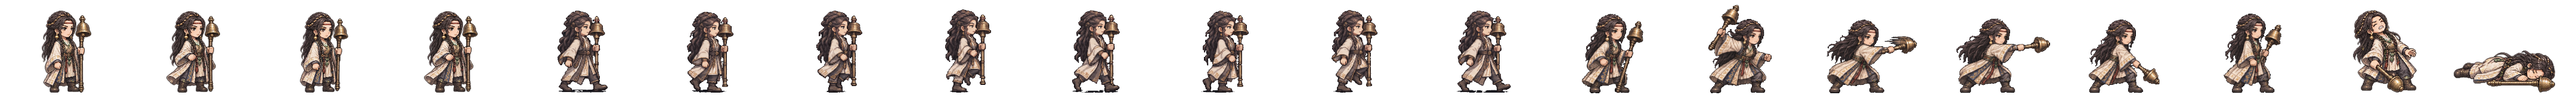
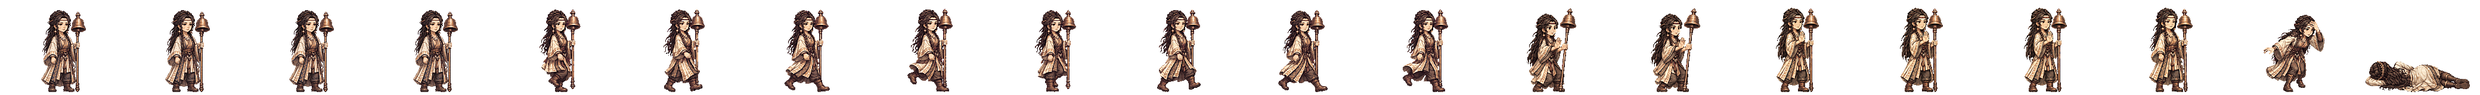
가락 신청간 새 띠: 큰 방울 지팡이 걷기·시전(손바닥 밀기)·방울 흔들기·맞음·쓰러짐 (걷기 윗몸 흔들림 0 · 합격)
Claude-Session: https://claude.ai/code/session_01TRiuN7s6aDfSnaHxrkctmU

Changed region(s): [[0.4688, 0.0938, 1.0, 1.0], [0.2188, 0.125, 0.4375, 0.9688], [0.0, 0.125, 0.1875, 0.9688]]

diff --git a/src/realm/data/spritePx.ts b/src/realm/data/spritePx.ts
@@ -1,3 +1,3 @@
 /** public/realm/anim-px/manifest.json 의 사본 — tools/sprite-normalize.mjs 가 만든다 (손으로 고치지 말 것). 칸 [가로, 세로] · feet = 발 줄(칸 위에서 y) · bodyPx = 서 있는 몸 키 */
 import { expandManifest } from './sprite-manifest.ts'
-export const SPRITE_PX: Readonly<Record<string, { readonly cell: readonly [number, number]; readonly feet: number; readonly bodyPx: number; readonly kind: 'general' | 'soldier' | 'folk' | 'crowd'; readonly cells: number }>> = expandManifest<{ readonly cell: readonly [number, number]; readonly feet: number; readonly bodyPx: number; readonly kind: 'general' | 'soldier' | 'folk' | 'crowd'; readonly cells: number }>([{"cell":[166,128],"feet":126,"bodyPx":124,"kind":"soldier","cells":20},{"cell":[116,128],"feet":126,"bodyPx":117,"kind":"soldier","cells":20},{"cell":[127,128],"feet":126,"bodyPx":116,"kind":"soldier","cells":20},{"cell":[269,128],"feet":126,"bodyPx":126,"kind":"soldier","cells":20},{"cell":[503,128],"feet":126,"bodyPx":127,"kind":"soldier","cells":20},{"cell":[614,128],"feet":126,"bodyPx":126,"kind":"soldier","cells":20},{"cell":[200,160],"feet":156,"bodyPx":138,"kind":"general","cells":20},{"cell":[208,160],"feet":155,"bodyPx":138,"kind":"general","cells":20},{"cell":[208,160],"feet":154,"bodyPx":138,"kind":"general","cells":20},{"cell":[304,160],"feet":155,"bodyPx":135,"kind":"general","cells":20},{"cell":[184,160],"feet":156,"bodyPx":138,"kind":"general","cells":20},{"cell":[208,160],"feet":154,"bodyPx":136,"kind":"general","cells":20},{"cell":[232,160],"feet":156,"bodyPx":138,"kind":"general","cells":20},{"cell":[208,160],"feet":156,"bodyPx":138,"kind":"general","cells":20},{"cell":[168,160],"feet":156,"bodyPx":124,"kind":"general","cells":20},{"cell":[216,160],"feet":156,"bodyPx":130,"kind":"general","cells":20},{"cell":[200,160],"feet":156,"bodyPx":116,"kind":"general","cells":20},{"cell":[192,160],"feet":156,"bodyPx":138,"kind":"general","cells":20},{"cell":[208,160],"feet":154,"bodyPx":135,"kind":"general","cells":20},{"cell":[280,160],"feet":156,"bodyPx":138,"kind":"general","cells":20},{"cell":[232,160],"feet":156,"bodyPx":134,"kind":"general","cells":20},{"cell":[144,160],"feet":156,"bodyPx":70,"kind":"general","cells":20},{"cell":[208,160],"feet":156,"bodyPx":70,"kind":"general","cells":20},{"cell":[192,160],"feet":156,"bodyPx":70,"kind":"general","cells":20},{"cell":[240,160],"feet":155,"bodyPx":138,"kind":"general","cells":20},{"cell":[160,160],"feet":156,"bodyPx":135,"kind":"general","cells":20},{"cell":[192,160],"feet":156,"bodyPx":128,"kind":"general","cells":20},{"cell":[224,160],"feet":155,"bodyPx":138,"kind":"general","cells":20},{"cell":[216,160],"feet":156,"bodyPx":138,"kind":"general","cells":20},{"cell":[208,160],"feet":156,"bodyPx":134,"kind":"general","cells":20},{"cell":[208,160],"feet":154,"bodyPx":130,"kind":"general","cells":20},{"cell":[248,160],"feet":156,"bodyPx":138,"kind":"general","cells":20},{"cell":[248,160],"feet":155,"bodyPx":138,"kind":"general","cells":20},{"cell":[192,160],"feet":155,"bodyPx":138,"kind":"general","cells":20},{"cell":[192,160],"feet":156,"bodyPx":124,"kind":"general","cells":20},{"cell":[208,160],"feet":154,"bodyPx":131,"kind":"general","cells":20},{"cell":[256,160],"feet":156,"bodyPx":138,"kind":"general","cells":20},{"cell":[240,160],"feet":156,"bodyPx":138,"kind":"general","cells":20},{"cell":[232,160],"feet":156,"bodyPx":139,"kind":"general","cells":20},{"cell":[232,160],"feet":156,"bodyPx":73,"kind":"general","cells":20},{"cell":[208,160],"feet":154,"bodyPx":137,"kind":"general","cells":20},{"cell":[264,160],"feet":156,"bodyPx":138,"kind":"general","cells":20},{"cell":[224,160],"feet":156,"bodyPx":138,"kind":"general","cells":20},{"cell":[224,160],"feet":156,"bodyPx":128,"kind":"general","cells":20},{"cell":[176,160],"feet":156,"bodyPx":129,"kind":"general","cells":20},{"cell":[208,160],"feet":154,"bodyPx":139,"kind":"general","cells":20},{"cell":[232,160],"feet":155,"bodyPx":138,"kind":"general","cells":20},{"cell":[208,160],"feet":156,"bodyPx":132,"kind":"general","cells":20},{"cell":[184,160],"feet":156,"bodyPx":122,"kind":"general","cells":20},{"cell":[280,160],"feet":155,"bodyPx":133,"kind":"general","cells":20},{"cell":[176,160],"feet":156,"bodyPx":70,"kind":"general","cells":20},{"cell":[186,128],"feet":126,"bodyPx":127,"kind":"soldier","cells":20},{"cell":[298,128],"feet":126,"bodyPx":126,"kind":"soldier","cells":20},{"cell":[82,128],"feet":126,"bodyPx":114,"kind":"folk","cells":8},{"cell":[134,128],"feet":126,"bodyPx":119,"kind":"soldier","cells":20},{"cell":[380,128],"feet":126,"bodyPx":124,"kind":"soldier","cells":20},{"cell":[114,128],"feet":126,"bodyPx":115,"kind":"soldier","cells":20},{"cell":[122,128],"feet":126,"bodyPx":114,"kind":"soldier","cells":20},{"cell":[254,128],"feet":126,"bodyPx":128,"kind":"soldier","cells":20},{"cell":[438,128],"feet":126,"bodyPx":126,"kind":"soldier","cells":20},{"cell":[88,128],"feet":126,"bodyPx":113,"kind":"folk","cells":8},{"cell":[100,128],"feet":126,"bodyPx":115,"kind":"folk","cells":8},{"cell":[108,128],"feet":126,"bodyPx":115,"kind":"folk","cells":8},{"cell":[63,128],"feet":126,"bodyPx":113,"kind":"folk","cells":8},{"cell":[69,96],"feet":96,"bodyPx":96,"kind":"crowd","cells":1},{"cell":[54,96],"feet":96,"bodyPx":96,"kind":"crowd","cells":1},{"cell":[47,96],"feet":96,"bodyPx":96,"kind":"crowd","cells":1},{"cell":[49,96],"feet":96,"bodyPx":96,"kind":"crowd","cells":1},{"cell":[57,96],"feet":96,"bodyPx":96,"kind":"crowd","cells":1},{"cell":[55,96],"feet":96,"bodyPx":96,"kind":"crowd","cells":1},{"cell":[45,96],"feet":96,"bodyPx":96,"kind":"crowd","cells":1},{"cell":[53,96],"feet":96,"bodyPx":96,"kind":"crowd","cells":1},{"cell":[64,96],"feet":96,"bodyPx":96,"kind":"crowd","cells":1},{"cell":[184,160],"feet":156,"bodyPx":124,"kind":"general","cells":20},{"cell":[208,160],"feet":154,"bodyPx":134,"kind":"general","cells":20},{"cell":[224,160],"feet":156,"bodyPx":133,"kind":"general","cells":20},{"cell":[192,160],"feet":156,"bodyPx":135,"kind":"general","cells":20},{"cell":[184,160],"feet":156,"bodyPx":137,"kind":"general","cells":20},{"cell":[176,160],"feet":156,"bodyPx":130,"kind":"general","cells":20},{"cell":[216,160],"feet":156,"bodyPx":134,"kind":"general","cells":20},{"cell":[216,160],"feet":156,"bodyPx":132,"kind":"general","cells":20},{"cell":[288,160],"feet":156,"bodyPx":138,"kind":"general","cells":20},{"cell":[192,160],"feet":156,"bodyPx":118,"kind":"general","cells":20},{"cell":[208,160],"feet":154,"bodyPx":128,"kind":"general","cells":20},{"cell":[240,160],"feet":156,"bodyPx":128,"kind":"general","cells":20},{"cell":[184,160],"feet":156,"bodyPx":132,"kind":"general","cells":20},{"cell":[208,160],"feet":156,"bodyPx":123,"kind":"general","cells":20},{"cell":[176,160],"feet":156,"bodyPx":116,"kind":"general","cells":20},{"cell":[272,160],"feet":156,"bodyPx":138,"kind":"general","cells":20},{"cell":[176,160],"feet":156,"bodyPx":138,"kind":"general","cells":20},{"cell":[176,160],"feet":156,"bodyPx":122,"kind":"general","cells":20},{"cell":[232,160],"feet":156,"bodyPx":127,"kind":"general","cells":20},{"cell":[184,160],"feet":156,"bodyPx":134,"kind":"general","cells":20},{"cell":[168,160],"feet":156,"bodyPx":138,"kind":"general","cells":20},{"cell":[176,160],"feet":156,"bodyPx":137,"kind":"general","cells":20},{"cell":[184,160],"feet":156,"bodyPx":133,"kind":"general","cells":20}],[["axe",0],["bandit-chief",1],["bandit-club",2],["boat",3],["bow",4],["crossbow",5],["gen-adogan",6],["gen-alpyeong",7],["gen-ara",8],["gen-areum",8],["gen-aryeong",9],["gen-bakdal",8],["gen-baram",8],["gen-bdanbi",10],["gen-beom",11],["gen-beombal",8],["gen-beomi",8],["gen-bira",12],["gen-biryu",13],["gen-budeul",8],["gen-byeol",8],["gen-daemusin",14],["gen-daeso",15],["gen-dallae2",10],["gen-dalli",8],["gen-damul",16],["gen-danbi",8],["gen-dangung",17],["gen-darae",18],["gen-dokmudeom",8],["gen-duman",19],["gen-eomni",8],["gen-eureum",20],["gen-g-bow",21],["gen-g-spear",22],["gen-g-sword",23],["gen-gaennae",8],["gen-gamsil",24],["gen-gaon",25],["gen-geota",13],["gen-geumbawi",10],["gen-geumha",26],["gen-goeun",13],["gen-gom",27],["gen-gomok",13],["gen-gureum",8],["gen-guryema",17],["gen-gwaeyu",12],["gen-haebi",8],["gen-haedal",6],["gen-haesol",8],["gen-halla",7],["gen-heo",8],["gen-hneoul",10],["gen-hogong",28],["gen-hojin",13],["gen-horselord",29],["gen-hwalmi",30],["gen-hyeokgeose",17],["gen-hyeopbo",6],["gen-irang",8],["gen-jibaekho",31],["gen-jinha",32],["gen-jita",33],["gen-jumong",34],["gen-keundol",7],["gen-maehwa",35],["gen-maenun",17],["gen-malgalgi",36],["gen-mari",37],["gen-maro",31],["gen-maryeo",13],["gen-mdallae",38],["gen-mir",6],["gen-mount",39],["gen-mulbeom",40],["gen-mulsae",40],["gen-musoe",28],["gen-noeul",8],["gen-nuri",41],["gen-ocheongan",42],["gen-odi",8],["gen-odogan",6],["gen-ogan",17],["gen-oi",43],["gen-olddaeso",20],["gen-onjo",44],["gen-pidogan",13],["gen-sagong",45],["gen-sdallae",6],["gen-sincheongan",28],["gen-singwigan",28],["gen-sinneoul",8],["gen-sobeol",46],["gen-soebi",6],["gen-soebo",47],["gen-soenun",45],["gen-sogeumbi",40],["gen-songbi",42],["gen-songyang",48],["gen-sori",8],["gen-soseono",49],["gen-suro",17],["gen-tahae",6],["gen-tneoul",8],["gen-w-bow",21],["gen-w-spear",50],["gen-waechief",13],["gen-wan",28],["gen-yeodogan",13],["gen-yucheongan",13],["gen-yusugan",31],["horse",51],["marine",52],["migrant",53],["militia",54],["pike",55],["pirate-captain",56],["pirate-sword",57],["shield",58],["spear",59],["villager-builder",60],["villager-farmer",61],["villager-porter",62],["villager-woman",63],["crowd-b1",64],["crowd-b2",65],["crowd-b3",66],["crowd-b4",67],["crowd-b5",68],["crowd-b6",69],["crowd-f1",64],["crowd-f2",69],["crowd-f3",70],["crowd-f4",71],["crowd-f5",64],["crowd-f6",72],["gen-dalbit",13],["gen-base-g-07-drunk-warrior",17],["gen-base-g-40-anya-adan",13],["gen-base-w-13-young-archer",8],["gen-base-g-03-sea-trader",37],["gen-base-w-10-pirate-captain",45],["gen-base-w-64-miri-dallae",45],["gen-base-g-41-goja-bau",37],["gen-base-g-42-dokro-garam",41],["gen-base-g-09-farmer-conscript",28],["gen-base-w-02-goguryeo-lady",28],["gen-base-w-17-mahan-pearl-diver",8],["gen-base-g-17-saro-isageum",47],["gen-base-g-18-daegaya-king",73],["gen-base-g-35-dabeol-dalgu",13],["gen-base-g-19-sabeol-veteran",28],["gen-base-w-23-usisan-whale-queen",8],["gen-base-g-36-gammun-gamdol",42],["gen-base-g-20-samul-sea-lord",36],["gen-base-g-37-eumjeup-jeup",10],["gen-base-g-38-chopal-palmae",17],["gen-base-w-75-daegaya-soemoe",17],["gen-base-g-45-dabeol-deulgae",10],["gen-base-g-04-jinhan-giant",13],["gen-base-g-08-veteran",13],["gen-base-w-18-jinhan-salt-widow",8],["gen-base-w-12-court-dancer",74],["gen-base-w-83-gyeonji-beodeul",75],["gen-base-w-05-baekje-queen",76],["gen-base-w-21-baekje-court-dancer",10],["gen-base-g-01-master-smith",77],["gen-base-g-93-jomun-solgae",78],["gen-base-g-57-bihwa-neup",37],["gen-base-w-72-eumjeup-beol",8],["gen-base-w-102-garak-dana",45],["gen-base-g-68-baekje-onnuri",13],["gen-base-w-27-mokji-jinha",6],["gen-base-g-22-ungcheon-gomnae",6],["gen-base-g-23-sangdang-soedal",13],["gen-base-g-24-wansan-onsan",6],["gen-base-g-25-balla-keunmoe",28],["gen-base-g-61-heomcheuk-bawi",28],["gen-base-g-88-wander-soeul",42],["gen-base-w-14-feast-spy",8],["gen-base-g-12-silla-youth",79],["gen-base-w-08-mahan-warrior",8],["gen-base-g-62-beonye-hanul",37],["gen-base-g-63-heomcheuk-beogeum",13],["gen-base-g-84-wander-seoneul",13],["gen-base-w-50-siljik-mulga",28],["gen-base-g-46-uga-nureongso",28],["gen-base-w-80-usan-gangchi",45],["gen-base-g-47-guga-sanyanggae",28],["gen-base-w-76-gampyeong-baetsagong",8],["gen-base-g-05-mahan-chieftain",80],["gen-base-g-58-usan-uhae",13],["gen-base-g-27-maek-maekdol",13],["gen-base-w-53-hwanna-gabi",45],["gen-base-w-29-golpo-janmul",31],["gen-base-g-53-baekje-haeru",6],["gen-base-w-71-yeonna-neoul",8],["gen-base-w-79-yangmaek-solmae",8],["gen-base-w-34-chopal-deulme",8],["gen-base-g-44-maga-malgup",81],["gen-base-w-31-dabeol-dalbit",45],["gen-base-g-51-biryuna-mulgyeol",42],["gen-base-g-48-gwanna-musoe",13],["gen-base-g-32-uga-sodu",12],["gen-base-g-49-goguryeo-sona",82],["gen-base-g-30-gwanna-soemoe",42],["gen-base-g-52-tamna-oreum",10],["gen-base-g-29-yeonna-myeongsol",34],["gen-base-w-56-dongokjeo-sogeum",74],["gen-base-g-54-mokji-mahan",12],["gen-base-g-33-jeoga-metdol",17],["gen-base-w-36-baekje-maena",8],["gen-base-w-38-sangdang-bulmae",6],["gen-base-w-39-gosaburi-galmae",8],["gen-base-w-40-mujin-munui",47],["gen-base-w-41-hwanna-beodeul",83],["gen-base-w-43-uga-nuri",36],["gen-base-w-45-tamna-oreumbi",10],["gen-base-g-60-golbeol-golgae",10],["gen-base-g-61-apdok-ap",28],["gen-base-g-62-gammun-gamnamu",6],["gen-base-g-63-chopal-yeoul",31],["gen-base-g-64-michuhol-sogeumkkun",37],["gen-base-g-65-sangdang-soemangchi",42],["gen-base-g-66-geonma-malbalgup",84],["gen-base-g-67-gosaburi-buri",85],["gen-base-g-68-mujin-bitgoeul",10],["gen-base-g-69-goryong-yong",42],["gen-base-g-70-siljik-pado",37],["gen-base-w-81-byeokjin-byeolbit",8],["gen-base-w-46-geonma-maru",8],["gen-base-w-48-mujin-mudeung",8],["gen-base-g-26-gampyeong-gaetbeol",12],["gen-base-g-60-eupcha-hangyeol",86],["gen-base-g-15-shaman-man",28],["gen-base-g-85-wander-ure",31],["gen-base-g-43-hwanna-amnok",13],["gen-base-g-50-bullae-gwaha",76],["gen-base-g-55-saro-bakdal",13],["gen-base-g-56-haseulla-gwahama",6],["gen-base-w-06-buyeo-huntress",40],["gen-base-w-22-dongye-tiger-huntress",8],["gen-base-w-25-bihwa-priestess",8],["gen-base-w-24-apdok-queen",10],["gen-base-w-61-iseo-sinae",13],["gen-base-w-26-iseo-tomboy-general",8],["gen-base-g-59-yangmaek-maekson",87],["gen-aw1-haebi",42],["gen-aw1-soseono",88],["gen-aw1-gamsil",10],["gen-aw1-mir",89],["gen-aw1-dangung",6],["gen-aw1-ara",42],["gen-aw1-jumong",90],["gen-aw1-onjo",91],["gen-aw1-base-w-83-gyeonji-beodeul",17],["gen-aw1-heo",41],["gen-aw1-base-g-38-chopal-palmae",6],["gen-aw1-base-w-25-bihwa-priestess",92],["gen-aw1-sori",93],["gen-aw1-gomok",6],["gen-aw1-irang",17],["gen-aw1-budeul",93],["gen-aw1-gom",37],["gen-aw1-sdallae",6],["gen-aw1-base-w-13-young-archer",6],["gen-aw1-base-w-36-baekje-maena",94],["gen-aw1-base-g-09-farmer-conscript",41],["gen-aw1-base-w-02-goguryeo-lady",95],["gen-aw1-haedal",10],["gen-aw1-hogong",6],["gen-aw1-maehwa",89],["gen-aw1-base-w-06-buyeo-huntress",12],["gen-aw1-base-w-08-mahan-warrior",42],["gen-aw1-base-w-29-golpo-janmul",42],["gen-aw1-base-w-31-dabeol-dalbit",17],["gen-aw1-base-w-38-sangdang-bulmae",93],["gen-aw1-bira",28],["gen-aw1-base-w-53-hwanna-gabi",93],["gen-aw1-base-w-56-dongokjeo-sogeum",89],["gen-aw1-base-w-72-eumjeup-beol",17],["gen-aw1-bdanbi",93],["gen-aw1-beom",10],["gen-aw1-beombal",10],["gen-aw1-byeol",17],["gen-aw1-dalli",89],["gen-aw1-malgalgi",31],["gen-aw1-sincheongan",28]])
+export const SPRITE_PX: Readonly<Record<string, { readonly cell: readonly [number, number]; readonly feet: number; readonly bodyPx: number; readonly kind: 'general' | 'soldier' | 'folk' | 'crowd'; readonly cells: number }>> = expandManifest<{ readonly cell: readonly [number, number]; readonly feet: number; readonly bodyPx: number; readonly kind: 'general' | 'soldier' | 'folk' | 'crowd'; readonly cells: number }>([{"cell":[166,128],"feet":126,"bodyPx":124,"kind":"soldier","cells":20},{"cell":[116,128],"feet":126,"bodyPx":117,"kind":"soldier","cells":20},{"cell":[127,128],"feet":126,"bodyPx":116,"kind":"soldier","cells":20},{"cell":[269,128],"feet":126,"bodyPx":126,"kind":"soldier","cells":20},{"cell":[503,128],"feet":126,"bodyPx":127,"kind":"soldier","cells":20},{"cell":[614,128],"feet":126,"bodyPx":126,"kind":"soldier","cells":20},{"cell":[200,160],"feet":156,"bodyPx":138,"kind":"general","cells":20},{"cell":[208,160],"feet":155,"bodyPx":138,"kind":"general","cells":20},{"cell":[208,160],"feet":154,"bodyPx":138,"kind":"general","cells":20},{"cell":[304,160],"feet":155,"bodyPx":135,"kind":"general","cells":20},{"cell":[184,160],"feet":156,"bodyPx":138,"kind":"general","cells":20},{"cell":[208,160],"feet":154,"bodyPx":136,"kind":"general","cells":20},{"cell":[232,160],"feet":156,"bodyPx":138,"kind":"general","cells":20},{"cell":[208,160],"feet":156,"bodyPx":138,"kind":"general","cells":20},{"cell":[168,160],"feet":156,"bodyPx":124,"kind":"general","cells":20},{"cell":[216,160],"feet":156,"bodyPx":130,"kind":"general","cells":20},{"cell":[200,160],"feet":156,"bodyPx":116,"kind":"general","cells":20},{"cell":[192,160],"feet":156,"bodyPx":138,"kind":"general","cells":20},{"cell":[208,160],"feet":154,"bodyPx":135,"kind":"general","cells":20},{"cell":[280,160],"feet":156,"bodyPx":138,"kind":"general","cells":20},{"cell":[232,160],"feet":156,"bodyPx":134,"kind":"general","cells":20},{"cell":[144,160],"feet":156,"bodyPx":70,"kind":"general","cells":20},{"cell":[208,160],"feet":156,"bodyPx":70,"kind":"general","cells":20},{"cell":[192,160],"feet":156,"bodyPx":70,"kind":"general","cells":20},{"cell":[240,160],"feet":155,"bodyPx":138,"kind":"general","cells":20},{"cell":[160,160],"feet":156,"bodyPx":135,"kind":"general","cells":20},{"cell":[192,160],"feet":156,"bodyPx":128,"kind":"general","cells":20},{"cell":[224,160],"feet":155,"bodyPx":138,"kind":"general","cells":20},{"cell":[216,160],"feet":156,"bodyPx":138,"kind":"general","cells":20},{"cell":[208,160],"feet":156,"bodyPx":134,"kind":"general","cells":20},{"cell":[208,160],"feet":154,"bodyPx":130,"kind":"general","cells":20},{"cell":[248,160],"feet":156,"bodyPx":138,"kind":"general","cells":20},{"cell":[248,160],"feet":155,"bodyPx":138,"kind":"general","cells":20},{"cell":[192,160],"feet":155,"bodyPx":138,"kind":"general","cells":20},{"cell":[192,160],"feet":156,"bodyPx":124,"kind":"general","cells":20},{"cell":[208,160],"feet":154,"bodyPx":131,"kind":"general","cells":20},{"cell":[256,160],"feet":156,"bodyPx":138,"kind":"general","cells":20},{"cell":[240,160],"feet":156,"bodyPx":138,"kind":"general","cells":20},{"cell":[232,160],"feet":156,"bodyPx":139,"kind":"general","cells":20},{"cell":[232,160],"feet":156,"bodyPx":73,"kind":"general","cells":20},{"cell":[208,160],"feet":154,"bodyPx":137,"kind":"general","cells":20},{"cell":[264,160],"feet":156,"bodyPx":138,"kind":"general","cells":20},{"cell":[224,160],"feet":156,"bodyPx":138,"kind":"general","cells":20},{"cell":[224,160],"feet":156,"bodyPx":128,"kind":"general","cells":20},{"cell":[176,160],"feet":156,"bodyPx":129,"kind":"general","cells":20},{"cell":[208,160],"feet":154,"bodyPx":139,"kind":"general","cells":20},{"cell":[232,160],"feet":155,"bodyPx":138,"kind":"general","cells":20},{"cell":[208,160],"feet":156,"bodyPx":132,"kind":"general","cells":20},{"cell":[184,160],"feet":156,"bodyPx":122,"kind":"general","cells":20},{"cell":[280,160],"feet":155,"bodyPx":133,"kind":"general","cells":20},{"cell":[176,160],"feet":156,"bodyPx":70,"kind":"general","cells":20},{"cell":[186,128],"feet":126,"bodyPx":127,"kind":"soldier","cells":20},{"cell":[298,128],"feet":126,"bodyPx":126,"kind":"soldier","cells":20},{"cell":[82,128],"feet":126,"bodyPx":114,"kind":"folk","cells":8},{"cell":[134,128],"feet":126,"bodyPx":119,"kind":"soldier","cells":20},{"cell":[380,128],"feet":126,"bodyPx":124,"kind":"soldier","cells":20},{"cell":[114,128],"feet":126,"bodyPx":115,"kind":"soldier","cells":20},{"cell":[122,128],"feet":126,"bodyPx":114,"kind":"soldier","cells":20},{"cell":[254,128],"feet":126,"bodyPx":128,"kind":"soldier","cells":20},{"cell":[438,128],"feet":126,"bodyPx":126,"kind":"soldier","cells":20},{"cell":[88,128],"feet":126,"bodyPx":113,"kind":"folk","cells":8},{"cell":[100,128],"feet":126,"bodyPx":115,"kind":"folk","cells":8},{"cell":[108,128],"feet":126,"bodyPx":115,"kind":"folk","cells":8},{"cell":[63,128],"feet":126,"bodyPx":113,"kind":"folk","cells":8},{"cell":[69,96],"feet":96,"bodyPx":96,"kind":"crowd","cells":1},{"cell":[54,96],"feet":96,"bodyPx":96,"kind":"crowd","cells":1},{"cell":[47,96],"feet":96,"bodyPx":96,"kind":"crowd","cells":1},{"cell":[49,96],"feet":96,"bodyPx":96,"kind":"crowd","cells":1},{"cell":[57,96],"feet":96,"bodyPx":96,"kind":"crowd","cells":1},{"cell":[55,96],"feet":96,"bodyPx":96,"kind":"crowd","cells":1},{"cell":[45,96],"feet":96,"bodyPx":96,"kind":"crowd","cells":1},{"cell":[53,96],"feet":96,"bodyPx":96,"kind":"crowd","cells":1},{"cell":[64,96],"feet":96,"bodyPx":96,"kind":"crowd","cells":1},{"cell":[184,160],"feet":156,"bodyPx":124,"kind":"general","cells":20},{"cell":[208,160],"feet":154,"bodyPx":134,"kind":"general","cells":20},{"cell":[224,160],"feet":156,"bodyPx":133,"kind":"general","cells":20},{"cell":[192,160],"feet":156,"bodyPx":135,"kind":"general","cells":20},{"cell":[184,160],"feet":156,"bodyPx":137,"kind":"general","cells":20},{"cell":[176,160],"feet":156,"bodyPx":130,"kind":"general","cells":20},{"cell":[216,160],"feet":156,"bodyPx":134,"kind":"general","cells":20},{"cell":[216,160],"feet":156,"bodyPx":132,"kind":"general","cells":20},{"cell":[288,160],"feet":156,"bodyPx":138,"kind":"general","cells":20},{"cell":[192,160],"feet":156,"bodyPx":118,"kind":"general","cells":20},{"cell":[208,160],"feet":154,"bodyPx":128,"kind":"general","cells":20},{"cell":[240,160],"feet":156,"bodyPx":128,"kind":"general","cells":20},{"cell":[184,160],"feet":156,"bodyPx":132,"kind":"general","cells":20},{"cell":[208,160],"feet":156,"bodyPx":123,"kind":"general","cells":20},{"cell":[176,160],"feet":156,"bodyPx":116,"kind":"general","cells":20},{"cell":[272,160],"feet":156,"bodyPx":138,"kind":"general","cells":20},{"cell":[176,160],"feet":156,"bodyPx":138,"kind":"general","cells":20},{"cell":[176,160],"feet":156,"bodyPx":122,"kind":"general","cells":20},{"cell":[232,160],"feet":156,"bodyPx":127,"kind":"general","cells":20},{"cell":[184,160],"feet":156,"bodyPx":134,"kind":"general","cells":20},{"cell":[168,160],"feet":156,"bodyPx":138,"kind":"general","cells":20},{"cell":[176,160],"feet":156,"bodyPx":137,"kind":"general","cells":20},{"cell":[184,160],"feet":156,"bodyPx":133,"kind":"general","cells":20}],[["axe",0],["bandit-chief",1],["bandit-club",2],["boat",3],["bow",4],["crossbow",5],["gen-adogan",6],["gen-alpyeong",7],["gen-ara",8],["gen-areum",8],["gen-aryeong",9],["gen-bakdal",8],["gen-baram",8],["gen-bdanbi",10],["gen-beom",11],["gen-beombal",8],["gen-beomi",8],["gen-bira",12],["gen-biryu",13],["gen-budeul",8],["gen-byeol",8],["gen-daemusin",14],["gen-daeso",15],["gen-dallae2",10],["gen-dalli",8],["gen-damul",16],["gen-danbi",8],["gen-dangung",17],["gen-darae",18],["gen-dokmudeom",8],["gen-duman",19],["gen-eomni",8],["gen-eureum",20],["gen-g-bow",21],["gen-g-spear",22],["gen-g-sword",23],["gen-gaennae",8],["gen-gamsil",24],["gen-gaon",25],["gen-geota",13],["gen-geumbawi",10],["gen-geumha",26],["gen-goeun",13],["gen-gom",27],["gen-gomok",13],["gen-gureum",8],["gen-guryema",17],["gen-gwaeyu",12],["gen-haebi",8],["gen-haedal",6],["gen-haesol",8],["gen-halla",7],["gen-heo",8],["gen-hneoul",10],["gen-hogong",28],["gen-hojin",13],["gen-horselord",29],["gen-hwalmi",30],["gen-hyeokgeose",17],["gen-hyeopbo",6],["gen-irang",8],["gen-jibaekho",31],["gen-jinha",32],["gen-jita",33],["gen-jumong",34],["gen-keundol",7],["gen-maehwa",35],["gen-maenun",17],["gen-malgalgi",36],["gen-mari",37],["gen-maro",31],["gen-maryeo",13],["gen-mdallae",38],["gen-mir",6],["gen-mount",39],["gen-mulbeom",40],["gen-mulsae",40],["gen-musoe",28],["gen-noeul",8],["gen-nuri",41],["gen-ocheongan",42],["gen-odi",8],["gen-odogan",6],["gen-ogan",17],["gen-oi",43],["gen-olddaeso",20],["gen-onjo",44],["gen-pidogan",13],["gen-sagong",45],["gen-sdallae",6],["gen-sincheongan",8],["gen-singwigan",28],["gen-sinneoul",8],["gen-sobeol",46],["gen-soebi",6],["gen-soebo",47],["gen-soenun",45],["gen-sogeumbi",40],["gen-songbi",42],["gen-songyang",48],["gen-sori",8],["gen-soseono",49],["gen-suro",17],["gen-tahae",6],["gen-tneoul",8],["gen-w-bow",21],["gen-w-spear",50],["gen-waechief",13],["gen-wan",28],["gen-yeodogan",13],["gen-yucheongan",13],["gen-yusugan",31],["horse",51],["marine",52],["migrant",53],["militia",54],["pike",55],["pirate-captain",56],["pirate-sword",57],["shield",58],["spear",59],["villager-builder",60],["villager-farmer",61],["villager-porter",62],["villager-woman",63],["crowd-b1",64],["crowd-b2",65],["crowd-b3",66],["crowd-b4",67],["crowd-b5",68],["crowd-b6",69],["crowd-f1",64],["crowd-f2",69],["crowd-f3",70],["crowd-f4",71],["crowd-f5",64],["crowd-f6",72],["gen-dalbit",13],["gen-base-g-07-drunk-warrior",17],["gen-base-g-40-anya-adan",13],["gen-base-w-13-young-archer",8],["gen-base-g-03-sea-trader",37],["gen-base-w-10-pirate-captain",45],["gen-base-w-64-miri-dallae",45],["gen-base-g-41-goja-bau",37],["gen-base-g-42-dokro-garam",41],["gen-base-g-09-farmer-conscript",28],["gen-base-w-02-goguryeo-lady",28],["gen-base-w-17-mahan-pearl-diver",8],["gen-base-g-17-saro-isageum",47],["gen-base-g-18-daegaya-king",73],["gen-base-g-35-dabeol-dalgu",13],["gen-base-g-19-sabeol-veteran",28],["gen-base-w-23-usisan-whale-queen",8],["gen-base-g-36-gammun-gamdol",42],["gen-base-g-20-samul-sea-lord",36],["gen-base-g-37-eumjeup-jeup",10],["gen-base-g-38-chopal-palmae",17],["gen-base-w-75-daegaya-soemoe",17],["gen-base-g-45-dabeol-deulgae",10],["gen-base-g-04-jinhan-giant",13],["gen-base-g-08-veteran",13],["gen-base-w-18-jinhan-salt-widow",8],["gen-base-w-12-court-dancer",74],["gen-base-w-83-gyeonji-beodeul",75],["gen-base-w-05-baekje-queen",76],["gen-base-w-21-baekje-court-dancer",10],["gen-base-g-01-master-smith",77],["gen-base-g-93-jomun-solgae",78],["gen-base-g-57-bihwa-neup",37],["gen-base-w-72-eumjeup-beol",8],["gen-base-w-102-garak-dana",45],["gen-base-g-68-baekje-onnuri",13],["gen-base-w-27-mokji-jinha",6],["gen-base-g-22-ungcheon-gomnae",6],["gen-base-g-23-sangdang-soedal",13],["gen-base-g-24-wansan-onsan",6],["gen-base-g-25-balla-keunmoe",28],["gen-base-g-61-heomcheuk-bawi",28],["gen-base-g-88-wander-soeul",42],["gen-base-w-14-feast-spy",8],["gen-base-g-12-silla-youth",79],["gen-base-w-08-mahan-warrior",8],["gen-base-g-62-beonye-hanul",37],["gen-base-g-63-heomcheuk-beogeum",13],["gen-base-g-84-wander-seoneul",13],["gen-base-w-50-siljik-mulga",28],["gen-base-g-46-uga-nureongso",28],["gen-base-w-80-usan-gangchi",45],["gen-base-g-47-guga-sanyanggae",28],["gen-base-w-76-gampyeong-baetsagong",8],["gen-base-g-05-mahan-chieftain",80],["gen-base-g-58-usan-uhae",13],["gen-base-g-27-maek-maekdol",13],["gen-base-w-53-hwanna-gabi",45],["gen-base-w-29-golpo-janmul",31],["gen-base-g-53-baekje-haeru",6],["gen-base-w-71-yeonna-neoul",8],["gen-base-w-79-yangmaek-solmae",8],["gen-base-w-34-chopal-deulme",8],["gen-base-g-44-maga-malgup",81],["gen-base-w-31-dabeol-dalbit",45],["gen-base-g-51-biryuna-mulgyeol",42],["gen-base-g-48-gwanna-musoe",13],["gen-base-g-32-uga-sodu",12],["gen-base-g-49-goguryeo-sona",82],["gen-base-g-30-gwanna-soemoe",42],["gen-base-g-52-tamna-oreum",10],["gen-base-g-29-yeonna-myeongsol",34],["gen-base-w-56-dongokjeo-sogeum",74],["gen-base-g-54-mokji-mahan",12],["gen-base-g-33-jeoga-metdol",17],["gen-base-w-36-baekje-maena",8],["gen-base-w-38-sangdang-bulmae",6],["gen-base-w-39-gosaburi-galmae",8],["gen-base-w-40-mujin-munui",47],["gen-base-w-41-hwanna-beodeul",83],["gen-base-w-43-uga-nuri",36],["gen-base-w-45-tamna-oreumbi",10],["gen-base-g-60-golbeol-golgae",10],["gen-base-g-61-apdok-ap",28],["gen-base-g-62-gammun-gamnamu",6],["gen-base-g-63-chopal-yeoul",31],["gen-base-g-64-michuhol-sogeumkkun",37],["gen-base-g-65-sangdang-soemangchi",42],["gen-base-g-66-geonma-malbalgup",84],["gen-base-g-67-gosaburi-buri",85],["gen-base-g-68-mujin-bitgoeul",10],["gen-base-g-69-goryong-yong",42],["gen-base-g-70-siljik-pado",37],["gen-base-w-81-byeokjin-byeolbit",8],["gen-base-w-46-geonma-maru",8],["gen-base-w-48-mujin-mudeung",8],["gen-base-g-26-gampyeong-gaetbeol",12],["gen-base-g-60-eupcha-hangyeol",86],["gen-base-g-15-shaman-man",28],["gen-base-g-85-wander-ure",31],["gen-base-g-43-hwanna-amnok",13],["gen-base-g-50-bullae-gwaha",76],["gen-base-g-55-saro-bakdal",13],["gen-base-g-56-haseulla-gwahama",6],["gen-base-w-06-buyeo-huntress",40],["gen-base-w-22-dongye-tiger-huntress",8],["gen-base-w-25-bihwa-priestess",8],["gen-base-w-24-apdok-queen",10],["gen-base-w-61-iseo-sinae",13],["gen-base-w-26-iseo-tomboy-general",8],["gen-base-g-59-yangmaek-maekson",87],["gen-aw1-haebi",42],["gen-aw1-soseono",88],["gen-aw1-gamsil",10],["gen-aw1-mir",89],["gen-aw1-dangung",6],["gen-aw1-ara",42],["gen-aw1-jumong",90],["gen-aw1-onjo",91],["gen-aw1-base-w-83-gyeonji-beodeul",17],["gen-aw1-heo",41],["gen-aw1-base-g-38-chopal-palmae",6],["gen-aw1-base-w-25-bihwa-priestess",92],["gen-aw1-sori",93],["gen-aw1-gomok",6],["gen-aw1-irang",17],["gen-aw1-budeul",93],["gen-aw1-gom",37],["gen-aw1-sdallae",6],["gen-aw1-base-w-13-young-archer",6],["gen-aw1-base-w-36-baekje-maena",94],["gen-aw1-base-g-09-farmer-conscript",41],["gen-aw1-base-w-02-goguryeo-lady",95],["gen-aw1-haedal",10],["gen-aw1-hogong",6],["gen-aw1-maehwa",89],["gen-aw1-base-w-06-buyeo-huntress",12],["gen-aw1-base-w-08-mahan-warrior",42],["gen-aw1-base-w-29-golpo-janmul",42],["gen-aw1-base-w-31-dabeol-dalbit",17],["gen-aw1-base-w-38-sangdang-bulmae",93],["gen-aw1-bira",28],["gen-aw1-base-w-53-hwanna-gabi",93],["gen-aw1-base-w-56-dongokjeo-sogeum",89],["gen-aw1-base-w-72-eumjeup-beol",17],["gen-aw1-bdanbi",93],["gen-aw1-beom",10],["gen-aw1-beombal",10],["gen-aw1-byeol",17],["gen-aw1-dalli",89],["gen-aw1-malgalgi",31],["gen-aw1-sincheongan",28]])

diff --git a/src/duel/view.ts b/src/duel/view.ts
@@ -100,7 +100,7 @@ const crowdFront = [1, 2, 3, 4, 5, 6].map((i) => img(`realm/duel/crowd/b${i}.png
 const crowdReady = (set: HTMLImageElement[]): boolean => set.every((im) => im.complete && im.naturalWidth > 0)
 const pxMode = cfg.px !== false && params.get('px') !== '0'
 /** 겨루기 전용 옛 띠(duel/sprites) 대신 열전과 같은 도트 띠(anim-px)를 쓰는 장수 — 두 판에서 같은 모습 · 서기 계획·쓰러지는 칸도 같다 (11-23 범 · 매화 · 달빛 · 11-24 해비 · 아룸) */
-const PX_DUEL: ReadonlySet<string> = new Set(['beom', 'maehwa', 'base-w-31-dabeol-dalbit', 'haebi', 'areum', 'base-w-13-young-archer', 'base-w-10-pirate-captain', 'base-w-17-mahan-pearl-diver', 'base-w-06-buyeo-huntress', 'base-w-64-miri-dallae', 'ara', 'base-w-22-dongye-tiger-huntress', 'noeul', 'sagong', 'sinneoul', 'heo', 'base-w-08-mahan-warrior', 'base-w-23-usisan-whale-queen', 'base-w-26-iseo-tomboy-general', 'base-w-72-eumjeup-beol', 'tneoul', 'odi', 'base-w-76-gampyeong-baetsagong', 'base-w-34-chopal-deulme', 'base-w-102-garak-dana', 'base-w-36-baekje-maena', 'base-w-56-dongokjeo-sogeum', 'budeul', 'base-w-53-hwanna-gabi', 'base-w-18-jinhan-salt-widow', 'beombal', 'irang', 'sogeumbi', 'baram', 'byeol', 'base-w-71-yeonna-neoul', 'base-w-39-gosaburi-galmae', 'base-w-41-hwanna-beodeul', 'base-w-79-yangmaek-solmae', 'base-w-46-geonma-maru', 'base-w-48-mujin-mudeung', 'base-w-80-usan-gangchi', 'base-w-81-byeokjin-byeolbit', 'beomi', 'danbi', 'dalli', 'gureum', 'haesol', 'soenun', 'eomni', 'mulbeom', 'mulsae', 'bakdal', 'darae', 'sori', 'base-w-12-court-dancer', 'hwalmi', 'gaennae', 'dokmudeom', 'base-w-14-feast-spy', 'base-w-25-bihwa-priestess'])
+const PX_DUEL: ReadonlySet<string> = new Set(['beom', 'maehwa', 'base-w-31-dabeol-dalbit', 'haebi', 'areum', 'base-w-13-young-archer', 'base-w-10-pirate-captain', 'base-w-17-mahan-pearl-diver', 'base-w-06-buyeo-huntress', 'base-w-64-miri-dallae', 'ara', 'base-w-22-dongye-tiger-huntress', 'noeul', 'sagong', 'sinneoul', 'heo', 'base-w-08-mahan-warrior', 'base-w-23-usisan-whale-queen', 'base-w-26-iseo-tomboy-general', 'base-w-72-eumjeup-beol', 'tneoul', 'odi', 'base-w-76-gampyeong-baetsagong', 'base-w-34-chopal-deulme', 'base-w-102-garak-dana', 'base-w-36-baekje-maena', 'base-w-56-dongokjeo-sogeum', 'budeul', 'base-w-53-hwanna-gabi', 'base-w-18-jinhan-salt-widow', 'beombal', 'irang', 'sogeumbi', 'baram', 'byeol', 'base-w-71-yeonna-neoul', 'base-w-39-gosaburi-galmae', 'base-w-41-hwanna-beodeul', 'base-w-79-yangmaek-solmae', 'base-w-46-geonma-maru', 'base-w-48-mujin-mudeung', 'base-w-80-usan-gangchi', 'base-w-81-byeokjin-byeolbit', 'beomi', 'danbi', 'dalli', 'gureum', 'haesol', 'soenun', 'eomni', 'mulbeom', 'mulsae', 'bakdal', 'darae', 'sori', 'base-w-12-court-dancer', 'hwalmi', 'gaennae', 'dokmudeom', 'base-w-14-feast-spy', 'base-w-25-bihwa-priestess', 'sincheongan'])
 /** 띠 그림 — 기본은 anim-px(도트 규격) 먼저, 없으면 옛 띠로 (img 의 onerror 가 갈아 끼운다) */
 const strip = (s: string): HTMLImageElement => pxMode
   ? DUEL_ATLASES[s] !== undefined && !PX_DUEL.has(s) ? img(`realm/duel/sprites/gen-${s}.png`, `realm/anim-px/gen-${s}.png`)

diff --git a/src/tune/params.ts b/src/tune/params.ts
@@ -1507,6 +1507,7 @@ export const HAEBI_IDLE = {
     dokmudeom: { cells: 38, base: [0, 1], hold: 2.4, fall: [18, 20, 21, 19], attack: { cells: [22, 23, 24, 25, 26, 27, 28, 29], times: [.09, .08, .11, .12, .12, .08, .08, .12], hit: 3 }, hurt: [34, 35], rise: [36, 37], xGeom: { h: 224, root: 92, foot: 216 } },
     'base-w-14-feast-spy': { cells: 38, base: [0, 1], hold: 2.4, fall: [18, 20, 21, 19], attack: { cells: [22, 23, 24, 25, 26, 27, 28, 29], times: [.09, .08, .11, .12, .12, .08, .08, .12], hit: 3 }, hurt: [34, 35], rise: [36, 37], xGeom: { h: 224, root: 92, foot: 216 } },
     'base-w-25-bihwa-priestess': { cells: 38, base: [0, 1], hold: 2.4, fall: [18, 20, 21, 19], quirk: [22, 23, 24, 25], quirkTimes: [.28, .3, .3, .25], attack: { cells: [26, 27, 28, 29, 30, 31, 32, 33], times: [.09, .08, .30, .05, .15, .07, .08, .12], hit: 4 }, hurt: [34, 35], rise: [36, 37], xGeom: { h: 224, root: 92, foot: 216 } },
+    sincheongan: { cells: 38, base: [0, 1], hold: 2.4, fall: [18, 20, 21, 19], quirk: [22, 23, 24, 25], quirkTimes: [.28, .3, .3, .25], attack: { cells: [26, 27, 28, 29, 30, 31, 32, 33], times: [.09, .08, .30, .05, .15, .07, .08, .12], hit: 4 }, hurt: [34, 35], rise: [36, 37], xGeom: { h: 224, root: 92, foot: 216 } },
   },
 } as const
 export const HAEBI_ANIM = {

diff --git a/tools/sprite-kit/anim-harness.py b/tools/sprite-kit/anim-harness.py
@@ -103,6 +103,7 @@ HEROES = {
     'mulsae': dict(hit=True, strip='gen-mulsae', atk='thrust', src='thrust2', actw=264, refoot=True, atk8=True, act=True, legacy=(('a', 2), ('a', 3), ('b', 3), ('b', 4)), cells8=[('a', 1), ('a', 2), ('a', 3), ('a', 4), ('a', 4), ('a', 4), ('b', 3), ('b', 4)]),   # 사로 물새 · 열째 묶음(API)
     'nuri': dict(hit=True, strip='gen-nuri', atk='thrust', src='thrust2', actw=264, refoot=True, atk8=True, act=True, legacy=(('a', 2), ('a', 3), ('b', 3), ('b', 4)), cells8=[('a', 1), ('a', 2), ('a', 3), ('a', 4), ('a', 4), ('a', 4), ('b', 3), ('b', 4)]),   # 구가 누리 · 열째 묶음(API)
     'bihwa': dict(hit=True, strip='gen-base-w-25-bihwa-priestess', atk='cast', actw=264, atk8=True, act=True, legacy=(('a', 1), ('b', 3), ('b', 3), ('b', 4))),   # 비화 무녀(방울 지팡이 · 가슴 M) · 무녀 묶음(11-25 밤) · 시전 cast(방울 흔들고 손바닥 밀기)
+    'sincheongan': dict(hit=True, strip='gen-sincheongan', atk='cast', actw=264, atk8=True, act=True, legacy=(('a', 1), ('b', 3), ('b', 3), ('b', 4))),   # 가락 신청간(방울 지팡이 · 가슴 M) · 무녀 묶음(11-25 밤) · 시전 cast(방울 흔들고 손바닥 밀기)
     'haebi': dict(hit=True, strip='gen-haebi', atk='chop', atk8=True, act=True),   # act = 공격 여덟 칸이 넓은 동작 칸(240×224 · 뿌리 92 · 발 줄 216)
     'areum': dict(hit=True, strip='gen-areum', atk='slam', atk8=True, act=True, lock='none'),   # 받은 그림 그대로(얼굴을 떠다 붙이지 않는다 — 11-24: 뭉친 얼굴이 여덟 칸에 퍼졌다) · 옛 lock='face': 메가 머리 뒤로 지나간다 — 머리 상자는 메를 자르고(「포스터」), 윗몸을 통째로 묶으면 떠다닌다(11-24 형) → 얼굴 안쪽만 묶는다
 }
